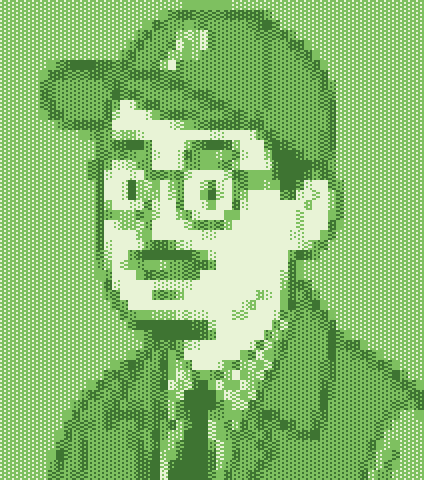
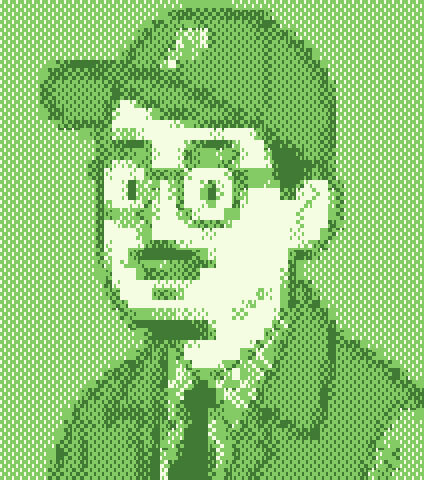
Fix the washed-out green, and coarsen the portrait into colour blocks
The render read grey next to the reference. Three causes, measured:

The GIF palette was capped at 48 colours against the reference's 255, so every
green gradient collapsed into flat bands. The dark areas were also short of
green - panel RGB (37,59,31) against the reference's (33,66,26) - because the
phosphor tint had been turned down to 0.18 and the bloom's screen blend lifts
all three channels equally, greying the blacks. And the portrait sat about 5%
darker than the reference throughout.

So: the terminal background is a greener black, the tint goes back up to 0.30,
and the portrait anchors come up ~5%. Panel is now (36.5,65.3,30.3) and overall
saturation 120.2 against the reference's 117.1.

The portrait's shade dots go from a fine 2px screen to chunky 2x4 blocks, which
the user asked for and which compresses far better. Grain is generated at half
resolution too: per-pixel grain changed almost every pixel every frame and
defeated the GIF's inter-frame compression, which is why a full palette cost
15MB. With both, 72 colours is enough - more adds nothing once the art is
blocky - and the file lands at 9.75 MB against the reference's 9.7 MB.

Changed region(s): [[0.0, 0.0, 1.0, 1.0], [0.5519, 0.625, 0.6132, 0.6875], [0.6132, 0.5938, 0.6439, 0.625]]

diff --git a/tools/build_crt.py b/tools/build_crt.py
@@ -11,7 +11,7 @@ FRAMES = 44
 FPS = 7
 SCANLINE_PERIOD = 3
 SCANLINE_DARKEN = 0.86
-TINT_STRENGTH = 0.18
+TINT_STRENGTH = 0.30
 TINT_SHADOW, TINT_MID, TINT_HIGHLIGHT = "#071007", "#69ad50", "#edf3df"
 BARREL_X, BARREL_Y, BARREL_RADIAL = 0.022, 0.028, 0.006
 MESH_STEP = 32
@@ -19,6 +19,7 @@ SCREEN_BOX = (9, 9, 791, 532)
 CORNER_RADIUS = 25
 BEZEL = "#0a0a0a"
 NOISE_SEED = 0x435254
+NOISE_BLOCK = 2
 PORTRAIT_BOX = (18, 14, 462, 506)
 # The dark baseline the terminal leaves between character rows. Measured on the
 # reference face strip: a crisp 3px line every 20px, about 24% down. It is laid
@@ -206,7 +207,14 @@ def sweep_frame(frame, mask, index):
 
 
 def add_noise(frame, strength, rng, envelope):
-    noise = Image.frombytes("L", frame.size, rng.randbytes(frame.width * frame.height))
+    # Grain is generated at half resolution and nearest-upscaled, so it moves in
+    # 2x2 blocks. Per-pixel grain changes almost every pixel every frame, which
+    # defeats the GIF's inter-frame compression and doubles the file for motion
+    # nobody can see at this amplitude.
+    coarse = (frame.width // NOISE_BLOCK, frame.height // NOISE_BLOCK)
+    noise = Image.frombytes("L", coarse, rng.randbytes(coarse[0] * coarse[1])).resize(
+        frame.size, Image.Resampling.NEAREST
+    )
     channels = []
     for channel, channel_strength in zip(frame.split(), strength):
         scaled_strength = channel_strength.point(lambda value: round(value * envelope))
@@ -251,8 +259,8 @@ def main(screen_path, out_gif):
     subprocess.run(
         ["ffmpeg", "-hide_banner", "-loglevel", "error", "-y", "-framerate", str(FPS),
          "-i", str(frames_dir / "crt_%03d.png"), "-filter_complex",
-         "[0:v]split[a][b];[a]palettegen=max_colors=48:stats_mode=full[p];"
-         "[b][p]paletteuse=dither=bayer:bayer_scale=4:diff_mode=rectangle", "-loop", "0", out_gif],
+         "[0:v]split[a][b];[a]palettegen=max_colors=72:stats_mode=full[p];"
+         "[b][p]paletteuse=dither=bayer:bayer_scale=5:diff_mode=rectangle", "-loop", "0", out_gif],
         check=True,
     )
     print(f"wrote {out_gif} ({pathlib.Path(out_gif).stat().st_size / 1e6:.2f} MB)")

diff --git a/tools/build_avatar.py b/tools/build_avatar.py
@@ -13,10 +13,13 @@ from PIL import Image, ImageDraw, ImageOps
 
 COLS, ROWS = 53, 24
 CELL_W, CELL_H = 8, 20          # the terminal's font advance and line pitch
-DOT = 2                         # shade-pattern dot size inside a cell
+# Shade dots are wide-short rather than square: 4 columns keeps the full range of
+# densities, while the taller dot gives the chunky block look and compresses far
+# better than a fine screen.
+DOT_W, DOT_H = 2, 4
 
 # Three phosphor anchors sampled from the reference: outline, backdrop, subject.
-DARK, MID, LIGHT = (62, 116, 50), (126, 192, 96), (232, 243, 214)
+DARK, MID, LIGHT = (65, 122, 53), (133, 203, 101), (244, 253, 226)
 
 BG_TOLERANCE = 32               # flood-fill tolerance for the avatar's flat backdrop
 TONE_OUTLINE, TONE_MIDTONE, TONE_SUBJECT, TONE_BACKDROP = 10, 96, 250, 150
@@ -75,14 +78,14 @@ def draw_block(draw, left, top, height, tone):
     """
     background, foreground, density = shade_for(tone)
     draw.rectangle((left, top, left + CELL_W - 1, top + height - 1), background)
-    columns = CELL_W // DOT
+    columns = CELL_W // DOT_W
     per_row = round(density * columns)
     if per_row:
-        for row in range(top // DOT, (top + height) // DOT):
+        for row in range(top // DOT_H, (top + height) // DOT_H):
             for column in range(columns):
                 if (column + row * 2) % columns < per_row:
-                    x, y = left + column * DOT, row * DOT
-                    draw.rectangle((x, y, x + DOT - 1, y + DOT - 1), foreground)
+                    x, y = left + column * DOT_W, row * DOT_H
+                    draw.rectangle((x, y, x + DOT_W - 1, y + DOT_H - 1), foreground)
 
 
 def draw_cell(draw, left, top, upper_tone, lower_tone):
